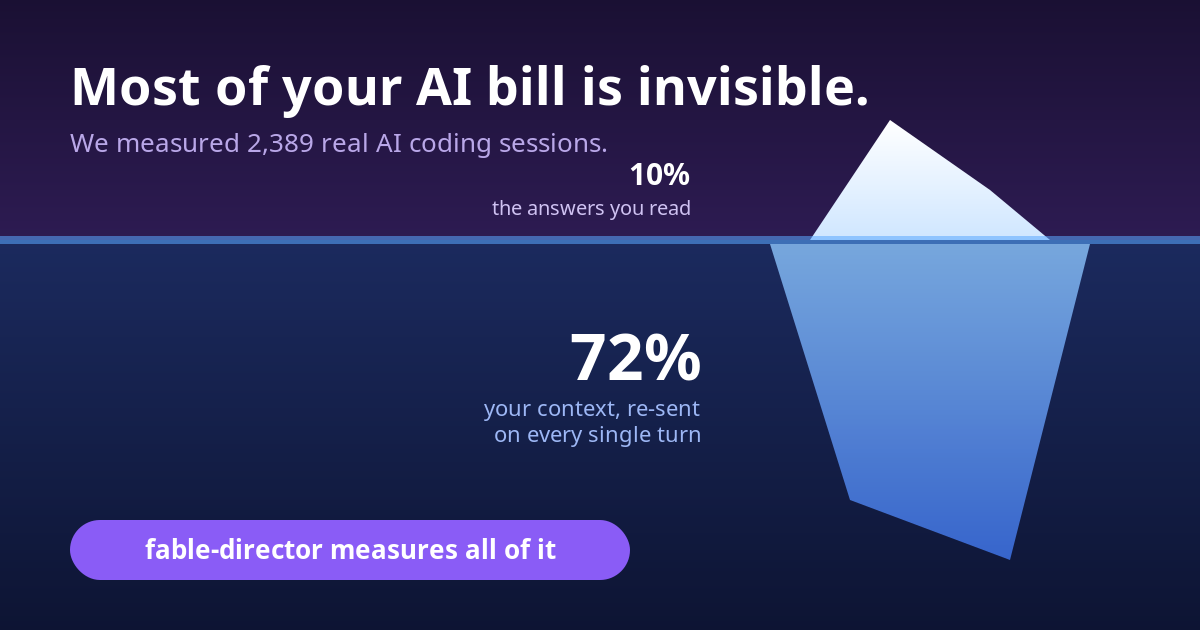
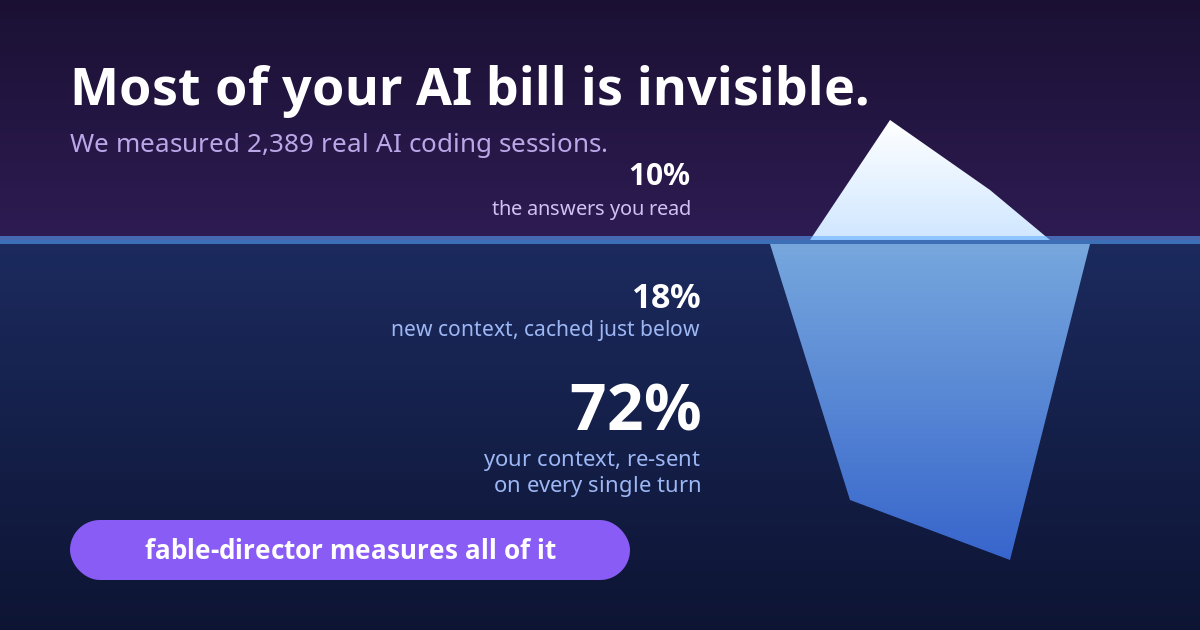
docs: iceberg card — the missing 18% (new context cached) makes it sum to 100
10 + 72 left 18 unaccounted; the cache_create share now sits just below
the waterline, where it belongs in the metaphor.

Claude-Session: https://claude.ai/code/session_01FhZs3Lv1ewwkJtDP9V74d4

Changed region(s): [[0.3083, 0.4524, 0.5858, 0.7841]]

diff --git a/README.md b/README.md
@@ -56,7 +56,7 @@ respected forever). No-CLI alternative and zip migration:
 
 ## How much does it save?
 
-![Most of your AI bill is invisible: measured on 2,389 real sessions, only 10% is the answers you read — 72% is your context re-sent on every single turn. fable-director measures all of it.](assets/readme/card1-iceberg.png)
+![Most of your AI bill is invisible: measured on 2,389 real sessions, only 10% is the answers you read — 18% is new context being cached, and 72% is your context re-sent on every single turn. fable-director measures all of it.](assets/readme/card1-iceberg.png)
 
 **The honest one-sentence answer:** it doesn't save tokens on every task — it
 makes spend predictable, verified and disciplined, and on read-heavy loads it
